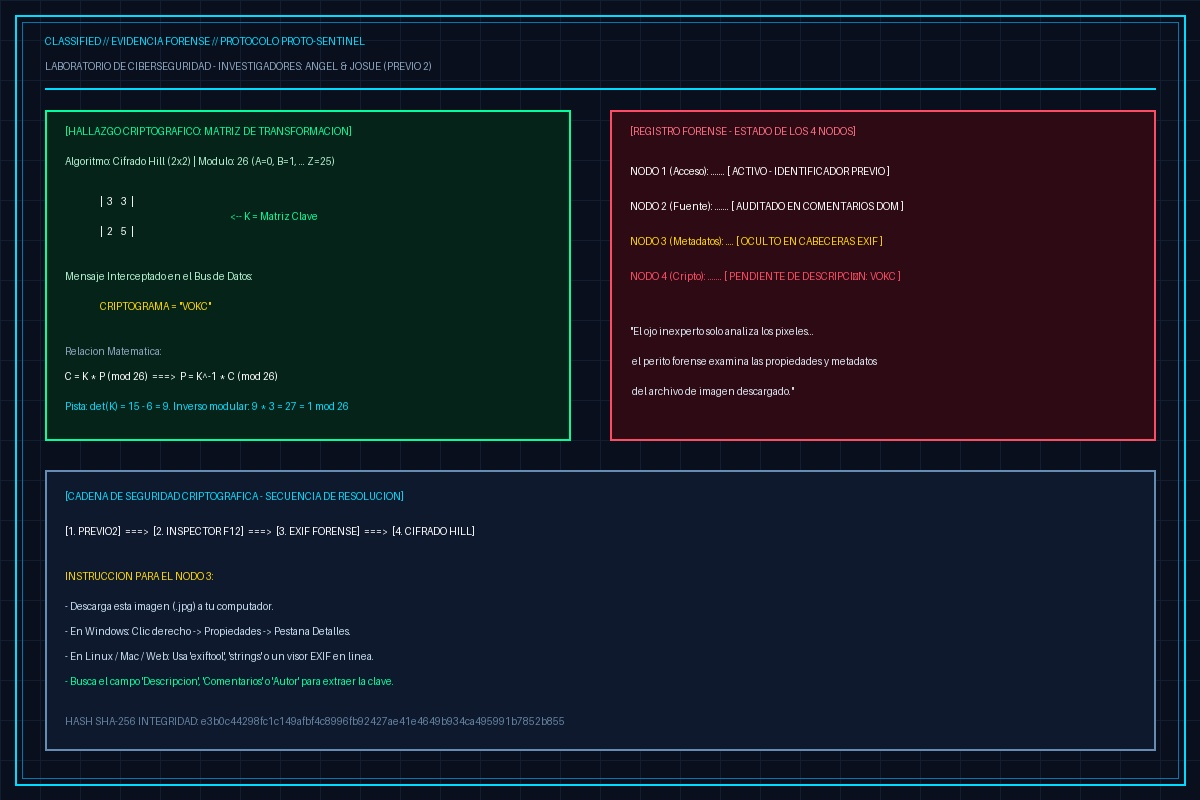
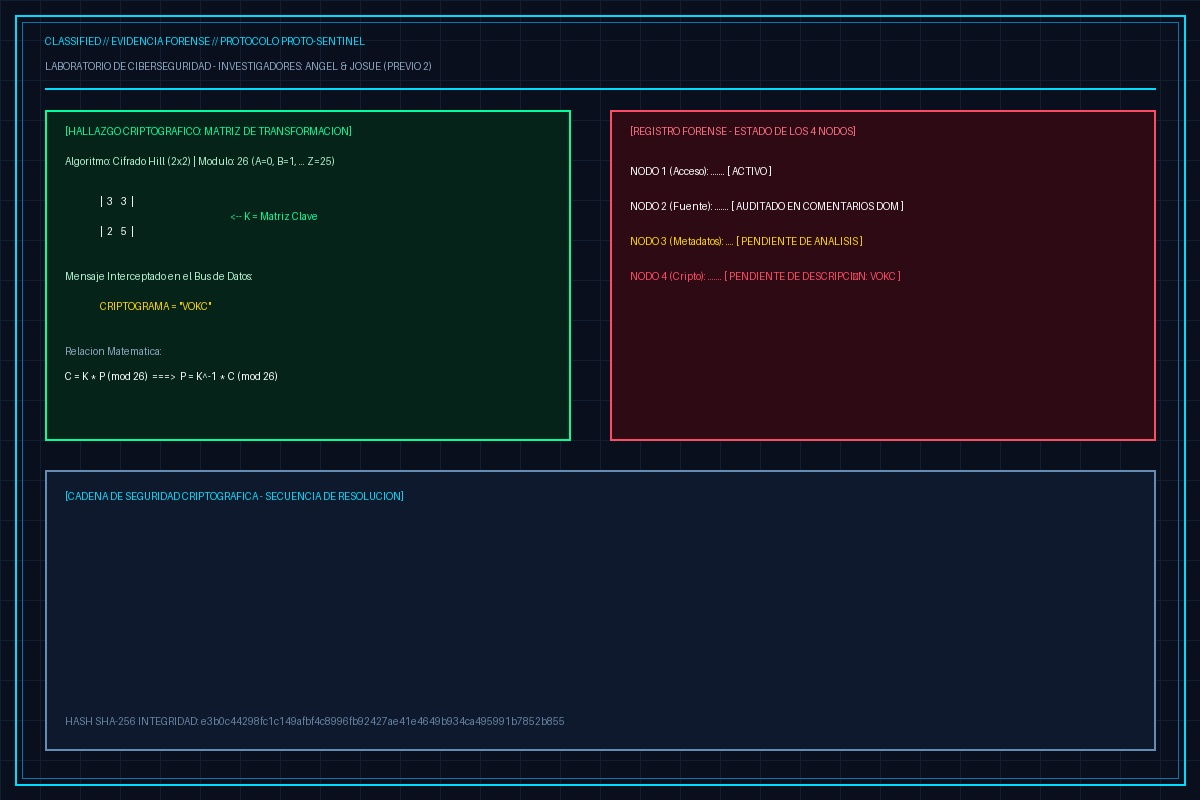
fix: quitar indicios de respuestas de los retos 1, 3 y 4
- Eliminar DIRECT_ANSWERS: la validacion queda solo por hash SHA-256.
- Quitar comentarios con respuestas en server.js y script.js.
- Cambiar meta challenge-version de 2.0-PREVIO2 a 2.0.
- generate_image.py: quitar det(K), cadena de resolucion, instrucciones
  EXIF y pistas con respuestas; ruta de salida relativa al repo.
- Regenerar assets/evidencia_lab.jpg; EXIF Descripcion y Copyright =
  EXIF_FORENSE_2026.

diff --git a/server.js b/server.js
@@ -60,23 +60,16 @@ if (process.env.DATABASE_URL) {
 
 // Hashes oficiales de validación
 const TARGET_HASHES = {
[3 lines of base64/hex data omitted]
   3: [
[4 lines of base64/hex data omitted]
   ],
   4: [
[4 lines of base64/hex data omitted]
   ]
-};
-
-const DIRECT_ANSWERS = {
-  1: ["PREVIO2"],
-  2: ["DEV_KEY_F12_2026"],
-  3: ["EXIF_FORENSE_2026", "METADATA_NODE_77"],
-  4: ["HACK", "FLAG"]
 };
 
 // ENDPOINTS API
@@ -112,9 +105,7 @@ app.post('/api/verify', async (req, res) => {
   const cleanAnswer = String(answer).trim().toUpperCase();
   const hash = crypto.createHash('sha256').update(cleanAnswer).digest('hex');
 
-  const isValid = 
-    (TARGET_HASHES[challengeId] && TARGET_HASHES[challengeId].includes(hash)) ||
-    (DIRECT_ANSWERS[challengeId] && DIRECT_ANSWERS[challengeId].includes(cleanAnswer));
+  const isValid = TARGET_HASHES[challengeId] && TARGET_HASHES[challengeId].includes(hash);
 
   // Registrar intento en Neon DB
   if (pool) {

diff --git a/script.js b/script.js
@@ -16,14 +16,6 @@ const VALID_HASHES = {
   ]
 };
 
-// Fallbacks directos para compatibilidad total
-const DIRECT_ANSWERS = {
-  1: ["PREVIO2"],
-  2: ["DEV_KEY_F12_2026"],
-  3: ["EXIF_FORENSE_2026", "METADATA_NODE_77"],
-  4: ["HACK", "FLAG"]
-};
-
 // Estado de cada una de las 4 casillas
 const challengeState = {
   1: false,
@@ -126,8 +118,7 @@ async function checkAnswer(challengeId) {
   }
   
   const computedHash = await sha256(rawValue);
-  const isValid = (computedHash && VALID_HASHES[challengeId].includes(computedHash)) || 
-                  DIRECT_ANSWERS[challengeId].includes(rawValue);
+  const isValid = computedHash && VALID_HASHES[challengeId].includes(computedHash);
   
   if (isValid) {
     challengeState[challengeId] = true;

diff --git a/index.html b/index.html
@@ -10,7 +10,7 @@
   
   <!-- Metadatos de Desarrollo -->
   <meta name="author" content="Ángel & Josué">
-  <meta name="challenge-version" content="2.0-PREVIO2">
+  <meta name="challenge-version" content="2.0">
   <meta name="description" content="Desafío CTF de Criptografía y Seguridad Informática para 3 Analistas">
 </head>
 <body>

diff --git a/generate_image.py b/generate_image.py
@@ -2,7 +2,7 @@ import os
 from PIL import Image, ImageDraw, ImageFont
 from PIL.ExifTags import TAGS
 
-assets_dir = r"C:\Users\mater\Documents\TrabajosWeb\SegInform\assets"
+assets_dir = os.path.join(os.path.dirname(os.path.abspath(__file__)), "assets")
 os.makedirs(assets_dir, exist_ok=True)
 img_path = os.path.join(assets_dir, "evidencia_lab.jpg")
 
@@ -38,30 +38,18 @@ draw.text((65, 270), "Mensaje Interceptado en el Bus de Datos:", fill=(180, 240,
 draw.text((100, 300), "CRIPTOGRAMA = \"VOKC\"", fill=(255, 215, 0))
 draw.text((65, 345), "Relacion Matematica:", fill=(140, 165, 190))
 draw.text((65, 370), "C = K * P (mod 26)  ===>  P = K^-1 * C (mod 26)", fill=(255, 255, 255))
-draw.text((65, 400), "Pista: det(K) = 15 - 6 = 9. Inverso modular: 9 * 3 = 27 = 1 mod 26", fill=(0, 220, 255))
 
 # Box 2: Node Status & Incident Logs
 draw.rectangle([(610, 110), (1155, 440)], outline=(255, 75, 100), fill=(45, 10, 20), width=2)
 draw.text((630, 125), "[REGISTRO FORENSE - ESTADO DE LOS 4 NODOS]", fill=(255, 110, 130))
-draw.text((630, 165), "NODO 1 (Acceso): ....... [ ACTIVO - IDENTIFICADOR PREVIO ]", fill=(255, 255, 255))
+draw.text((630, 165), "NODO 1 (Acceso): ....... [ ACTIVO ]", fill=(255, 255, 255))
 draw.text((630, 200), "NODO 2 (Fuente): ....... [ AUDITADO EN COMENTARIOS DOM ]", fill=(255, 255, 255))
-draw.text((630, 235), "NODO 3 (Metadatos): .... [ OCULTO EN CABECERAS EXIF ]", fill=(255, 215, 0))
+draw.text((630, 235), "NODO 3 (Metadatos): .... [ PENDIENTE DE ANALISIS ]", fill=(255, 215, 0))
 draw.text((630, 270), "NODO 4 (Cripto): ....... [ PENDIENTE DE DESCRIPCIÓN: VOKC ]", fill=(255, 75, 100))
-draw.text((630, 325), "\"El ojo inexperto solo analiza los pixeles...", fill=(220, 230, 240))
-draw.text((630, 355), " el perito forense examina las propiedades y metadatos", fill=(220, 230, 240))
-draw.text((630, 385), " del archivo de imagen descargado.\"", fill=(220, 230, 240))
 
 # Box 3: Forensic Architecture & Chain
 draw.rectangle([(45, 470), (1155, 750)], outline=(100, 140, 180), fill=(15, 25, 45), width=2)
 draw.text((65, 490), "[CADENA DE SEGURIDAD CRIPTOGRAFICA - SECUENCIA DE RESOLUCION]", fill=(0, 220, 255))
-draw.text((65, 525), "[1. PREVIO2]  ===>  [2. INSPECTOR F12]  ===>  [3. EXIF FORENSE]  ===>  [4. CIFRADO HILL]", fill=(255, 255, 255))
-
-draw.text((65, 570), "INSTRUCCION PARA EL NODO 3:", fill=(255, 215, 0))
-draw.text((65, 600), "- Descarga esta imagen (.jpg) a tu computador.", fill=(200, 220, 240))
-draw.text((65, 625), "- En Windows: Clic derecho -> Propiedades -> Pestana Detalles.", fill=(200, 220, 240))
-draw.text((65, 650), "- En Linux / Mac / Web: Usa 'exiftool', 'strings' o un visor EXIF en linea.", fill=(200, 220, 240))
-draw.text((65, 675), "- Busca el campo 'Descripcion', 'Comentarios' o 'Autor' para extraer la clave.", fill=(0, 255, 157))
-
 draw.text((65, 715), "HASH SHA-256 INTEGRIDAD: e3b0c44298fc1c149afbf4c8996fb92427ae41e4649b934ca495991b7852b855", fill=(100, 130, 160))
 
 # Prepare EXIF tags
